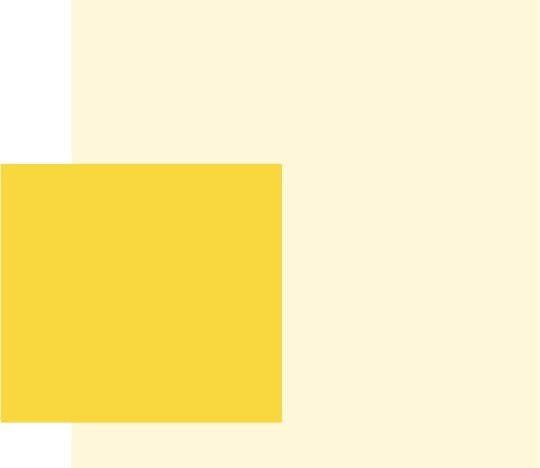
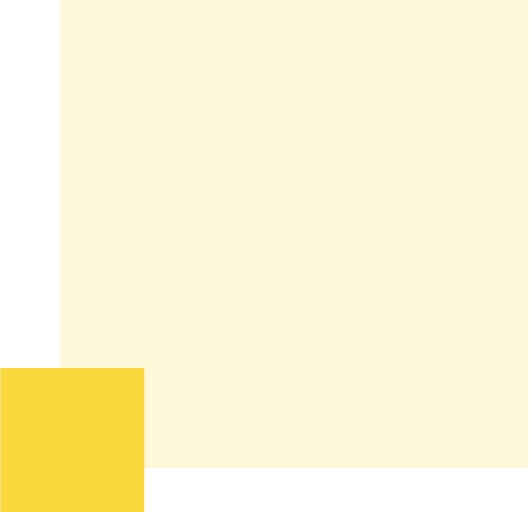
added content + link fixes

diff --git a/juji-solutions-1.html b/juji-solutions-1.html
@@ -8,15 +8,12 @@ date: 2020-03-31T05:24:53.929Z
 
   <div class="container-fluid">
     
-    <div class="row justify-content-around">
+    <div class="row align-items-center justify-content-around">
       
       <div class="col-lg-6 jumbotron-holder">
 	<div class="jumbotron">
 	  <h1>Automate Customer Support</h1>
 	  <p>Customer services personalized at scale, 24x7. <br>Set up in minutes with no coding.</p>
-
-	  <br>
-	  <h3><a href="#cs-use-cases">USE CASES</a></h3>
 	</div> <!--jumbotron-->
       </div>
 
@@ -42,7 +39,7 @@ date: 2020-03-31T05:24:53.929Z
   
 </section>
 
-<section class="why-section role-section" id="cs-use-cases">
+<section class="why-section role-section" id="use-cases">
   <div class="role-section-top"  id="sales-guide" name="alicia">
     <div class="container-fluid">
       <div class=
@@ -175,7 +172,7 @@ date: 2020-03-31T05:24:53.929Z
 
 <section class="solution-section" id="office-admin">
   <div class="container-fluid">
-    <div class="row justify-content-around">
+    <div class="row align-items-center justify-content-around">
       
       <div class="col-lg-6">
 	<div class="how-to-block">
@@ -186,7 +183,7 @@ date: 2020-03-31T05:24:53.929Z
 	      
 	  <br>
 	  <br>
-	  <p>WATCH <a href="https://youtu.be/-GXHHZXikSU" target="_blank">TUTORIAL VIDEO</a></p>
+	  <p>WATCH <a href="https://docs.juji.io/tutorial/#make-ai-chatbots-for-free-text-qa-and-deploy-to-facebook-messenger" target="_blank">TUTORIAL VIDEO</a></p>
 	    
 	</div> <!--how to-block-->
       </div> <!--end of col-->
@@ -195,9 +192,6 @@ date: 2020-03-31T05:24:53.929Z
 	<div class="jumbotron">
 	  <h1>Automate Office Administration</h1>
 	  <p>Office tasks done effectively, 24x7.<br>Customize with no coding, easier than making PowerPoint.</p>
-
-	  <br>
-	  <h3><a href="#office-admin-use-cases">USE CASES</a></h3>
 	</div>
       </div>
 	  
@@ -205,7 +199,7 @@ date: 2020-03-31T05:24:53.929Z
   </div> <!--container-->
 </section>
      
-<section class="why-section role-section" id="office-admin-use-cases">
+<section class="why-section role-section" id="receptionist">
   <div class="role-section-top" id="albert">
     <div class="container-fluid">
       <div class=
@@ -350,8 +344,6 @@ date: 2020-03-31T05:24:53.929Z
 	<div class="jumbotron">
 	  <h1>Conversational Survey</h1>
 	  <p>Surveys reinvented, personalized and fun.<br>Set up with no coding, similar to using SurveyMonkey.</p>
-	  <br>
-	  <h3><a href="#survey-use-cases">USE CASES</a></h3>
 	</div>
       </div> <!--First col-->
 	 
@@ -362,14 +354,14 @@ date: 2020-03-31T05:24:53.929Z
 	       alt="how to automate care management tasks">
 	  <br>
 	  <br>
-	  <p>WATCH <a href="https://youtu.be/HwrGulGsTUk" target="_blank">TUTORIAL VIDEO</a></p>
+	  <p>WATCH <a href="https://youtu.be/q7JyNNItfMU" target="_blank">TUTORIAL VIDEO</a></p>
 	</div> <!--how to-block-->
       </div> <!-col-->
     </div> <!-row-->
   </div> <!--container-->
 </section>
      
-<section class="why-section role-section" id="survey-use-cases">
+<section class="why-section role-section">
   <div class="role-section-top" id="kaya">
     <div class="container-fluid">
       <div class=
@@ -434,11 +426,10 @@ date: 2020-03-31T05:24:53.929Z
     </div>
   </div>
 </section>
-
-
+    
 <section class="solution-section" id="care">
   <div class="container-fluid">
-    <div class="row justify-content-around">
+    <div class="row adjust-items-center justify-content-around">
       <div class="col-lg-6">
 	<div class="how-to-block">
 	  <img class="how-to-img lazyload"
@@ -456,10 +447,6 @@ date: 2020-03-31T05:24:53.929Z
 	<div class="jumbotron">
 	  <h1>Automate Caregiving</h1>
 	  <p>Care management personalized at scale, for any duration. <br>Customize workflow with no coding, easier than using Excel.</p>
-
-	  <br>
-	  <h3><a href="#care-use-cases">USE CASES</a></h3>
-	  
 	</div>
       </div>
 	   
@@ -468,7 +455,7 @@ date: 2020-03-31T05:24:53.929Z
   </div> <!--container-->
 </section>
 
-<section class="why-section role-section" id="care-use-cases">
+<section class="why-section role-section" id="care-assistant">
   <div class="role-section-top" id="kai">
     <div class="container-fluid">
       <div class=

diff --git a/_includes/website.css b/_includes/website.css
@@ -1010,9 +1010,16 @@ footer .logo {
 
 @media (min-width: 1024px){
 
-    .intro-section  {
+    .why-section.intro-section  {
     /*background-image:url("/assets/img/ui/product-banner-side.png");*/
 	background-image:url("/assets/img/ui/out-of-box-ai-1.gif");
+    background-position: bottom;
+    background-repeat: no-repeat;
+    background-size: contain;
+    }
+
+    .gallery.intro-section  {
+    background-image:url("/assets/img/ui/product-banner-side.png");
     background-position: bottom;
     background-repeat: no-repeat;
     background-size: contain;
@@ -1986,7 +1993,7 @@ About Page
 }
 
 .jumbotron p {
-    font-size: 20px;
+    font-size: 18px;
 }
 
 .jumbotron .dropdown {
@@ -2098,31 +2105,20 @@ About Page
 
 
 footer .side-nav {
-    position:relative;
-    z-index:800
-}
-
-
-footer .side-nav {
-    position: fixed;
+    /* The following will make the buttons sticky to the bottom*/
+    /*position: fixed;
     left: 2%;
     bottom: 0%;
+    z-index:800;	
+   */
+    margin-left: 0;
+    padding-left: 0;
 }
-
-
-footer .side-nav .side-nav-list {
-    text-align:center;
-    margin:0;
-    padding:0;
-    padding:35px 0;
-    background:#282c37;
-}
-
 
 footer .side-nav .side-nav-list{
-    margin-top:0;
-    background: transparent;
+    margin:0;
     padding: 0;
+    background: transparent;
 }
 
 /*.side-nav .side-nav-list .tooltip-inner{background:#282c37}
@@ -2135,15 +2131,17 @@ footer .side-nav .side-nav-list{
 
 
 footer  .side-nav .side-nav-list li{
-    display:block;
+    /*display:block;*/
+    display: inline;
     margin:0;
     padding:0;
-    margin-bottom:15px
+    /*margin-bottom:15px;*/
+    margin-right: 5px;
 }
 
 
 footer .side-nav .side-nav-list li .side-nav-item{
-    display:block;
+    /*display:block;*/
     padding: 0.3rem;
     width: 30px;
     height: 30px;
@@ -2191,51 +2189,54 @@ footer .side-nav .side-nav-list li .side-nav-item:hover{
 
 .solution-section .jumbotron {
     background: transparent;
+    margin: auto;
+    width: 90%;
 }
 
 .solution-section .how-to-block {
     margin:auto;
     text-align:center;
     margin-top: 30px;
+    width: 90%;
 }
 
 .solution-section .how-to-block a {
     font-family: GothamRounded-Medium;
 }
 
-#customer-support .jumbotron{
+#customer-support .jumbotron-holder{
     
     background-size: contain; 
-    background-position: 0% 0%;
+    background-position: 2% 0%;
     background-image: url(/assets/img/ui/solution-1-bg.jpg);
     background-repeat: no-repeat;
  
 }
 
 
-#office-admin {
+#office-admin .jumbotron-holder{
     
     background-size: contain;
-    background-position: 0% 50%;
+    background-position: 98% 50%;
     background-image: url(/assets/img/ui/solution-2-bg.jpg);
     background-repeat: no-repeat;
  
 }
 
-#interviewer {
+#interviewer .jumbotron-holder{
     
     background-size: contain;
-    background-position: 100% 50%;
-    background-image: url(/assets/img/ui/solution-4-bg.jpg);
+    background-position: 2% 0%;
+    background-image: url(/assets/img/ui/solution-3-bg.jpg);
     background-repeat: no-repeat;
 
 }
 
-#care {
+#care .jumbotron-holder{
     
     background-size: contain;
-    background-position: 0% 50%;
-    background-image: url(/assets/img/ui/solution-3-bg.jpg);
+    background-position: 98% 50%;
+    background-image: url(/assets/img/ui/solution-4-bg.jpg);
     background-repeat: no-repeat;
  
 }

diff --git a/gallery.html b/gallery.html
@@ -1,12 +1,12 @@
 ---
 layout: page.njk
-title: "Online Example Juji Chatbots"
+title: "Live AI Chatbot Demos"
 date: 2020-03-31T05:24:53.929Z
 ---
-    <section class="why-section intro-section">
+    <section class="gallery intro-section">
       <div class="jumbotron">
-        <h1>Online Example AI Chatbots</h1>
-        <p>Made by Juji users.</p>
+        <h1>Try Live AI Chatbots</h1>
+        <p>Sample AI chat made by Juji users firsthand.</p>
       </div> <!-- end of jumbotron-->
     </section>
 
@@ -19,7 +19,7 @@ date: 2020-03-31T05:24:53.929Z
                   <div class="image-block" id="jennifer-demo">
 		    <img alt="REP Jennifer profile"
                          class="rep-profile-img lazyload" src=
-                         "/assets/img/ui/jennifer-profile.png"></div>
+                         "/assets/img/ui/jennifer-profile.jpg"></div>
                   <div class="card-block">
                     <h3 class="card-title" id="engagement-title">Jennifer</h3>
                     <p class="card-text">I debunk misinformation and answer natural language questions about COVID-19 using reliable sources.

diff --git a/publications.html b/publications.html
@@ -83,7 +83,7 @@ date: 2020-03-31T05:24:53.929Z
         <ol>
           <li>Michelle X. Zhou. (2020) <a href="https://drive.google.com/open?id=1iDOh1OfRc3qcDI8ZQyaOWs-dxeiFr9cs" target="_blank">You Really Get Me: Conversational AI That Can Truly Understand and Help Users</a> AAAI'2020 <a href="https://sites.google.com/view/wicrs2020" target="_blank">WICRS 2020</a>. 
           </li>
-          <li>Michelle X. Zhou. (2020) <a href="https://drive.google.com/file/d/16b-wjsLJ1gMb96dQY_OoojMBCAYNMLDq/view?usp=sharing" target="_blank">Democratizing AI: The Easiest Way to Scale Business with AI Helpers.</a> ACM SF Meetup 2020. 
+          <li>Michelle X. Zhou. (2020) <a href="https://drive.google.com/file/d/1kuoIIVXCJ82mAuf7UxrQNuS5UEPhVZxz/view?usp=sharing" target="_blank">Democratizing AI: The Easiest Way to Scale Business with AI Helpers.</a> ACM SF Meetup 2020. 
           </li>
           <li>Michelle X. Zhou. (2019)
             <a href="https://www.youtube.com/watch?v=EKhs9e0yx_g"
